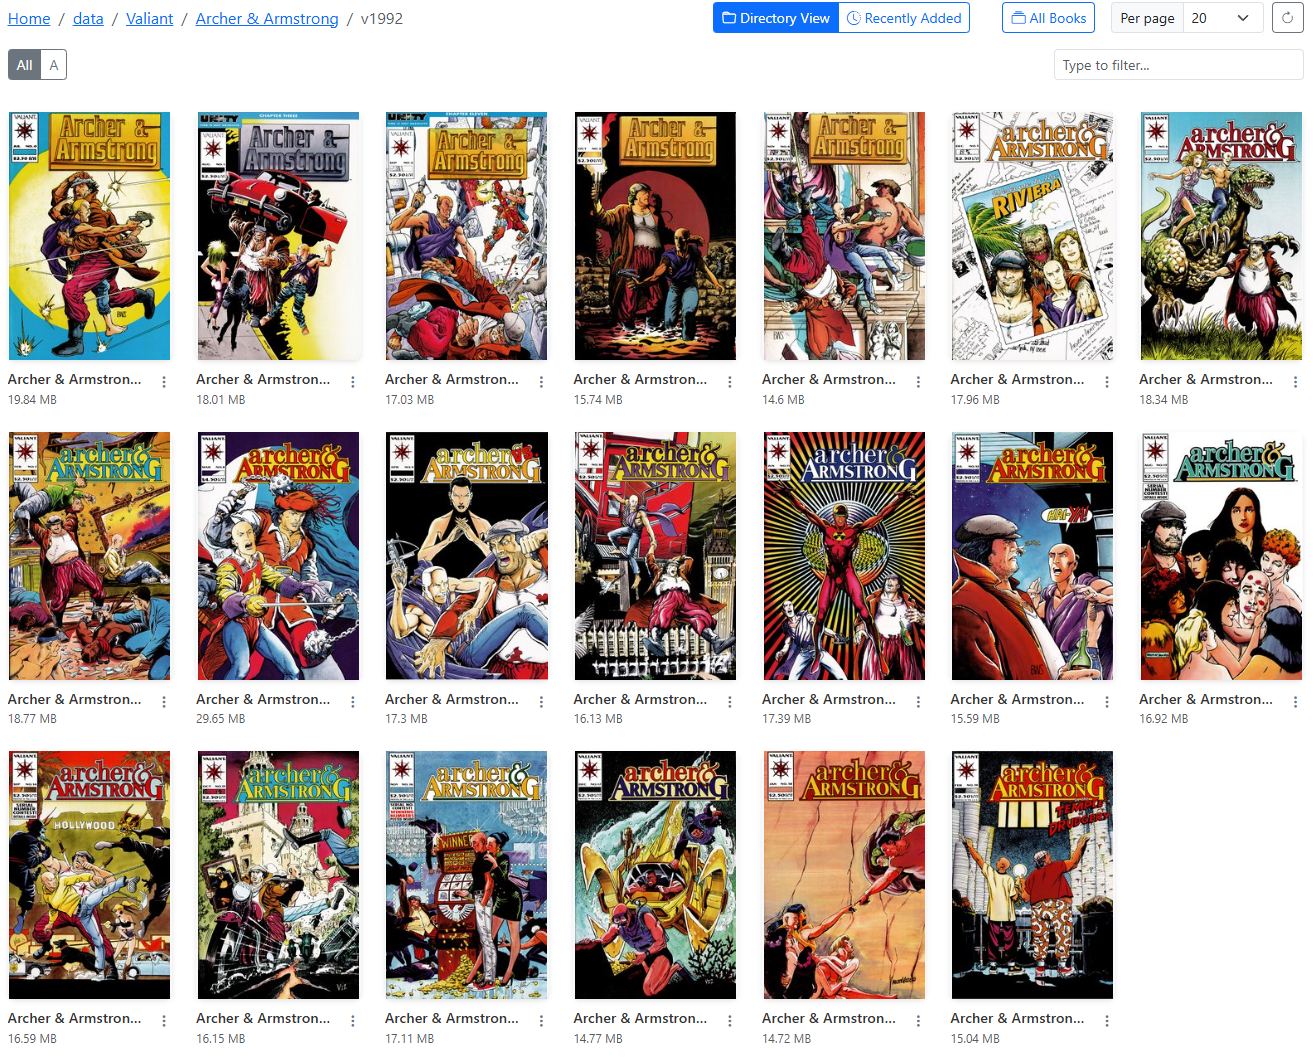
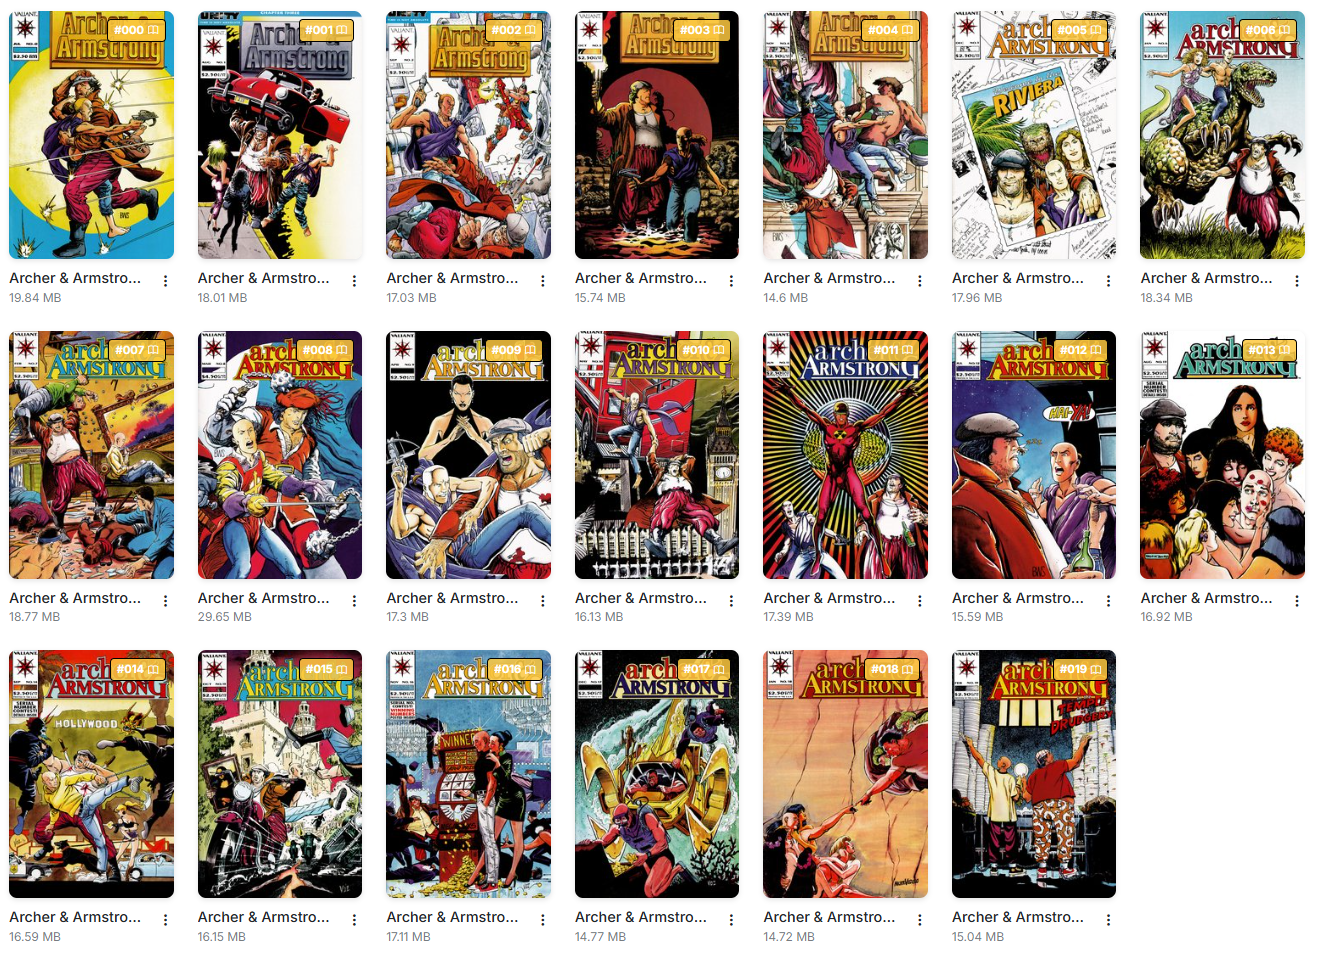
Collection Updates

diff --git a/docs/features/collection/reading.md b/docs/features/collection/reading.md
@@ -5,7 +5,15 @@
 Reading a Comic
 ///
 
-When browsinmg your collection, you can click on a comic to read it. The reader will open in a modal over the page.
+When browsing your collection, you can click on a comic to read it. The reader will open in a modal over the page.
+
+## Read vs Unread Status
+
+![Read vs Unread Status](../../assets/collection/read_unread.png)
+
+When you read a comic, it will be marked as read and saved in your history. This is done automatically when you reach 90% of the issue.
+
+Additionaly, you'll see a unread/read icon <i class="bi bi-book text-primary"></i> in the right corner of the cover, directly after the issue number
 
 ## Reader Features
 The current implementation is a simple reader that allows you to read your comics quickly.  

diff --git a/docs/features/collection/issues.md b/docs/features/collection/issues.md
@@ -7,6 +7,13 @@ Example Issues Page
 
 When you navigate to a folder (series) with only files (issues), you will see a list of files (issues) in that folder.
 
+To ensure you can quickly determine the issue number, the issue number will be displayed in the top right corner of the cover.
+
+![Issue Number](../../assets/collection/issue_number.png)
+/// caption
+Issue Number
+///
+
 ## Issue Options
 For issues, there are 6 options in the dropdown menu that can be accessed by clicking the <i class="bi bi-three-dots-vertical fs-2 text-icon"></i> menu.
 
